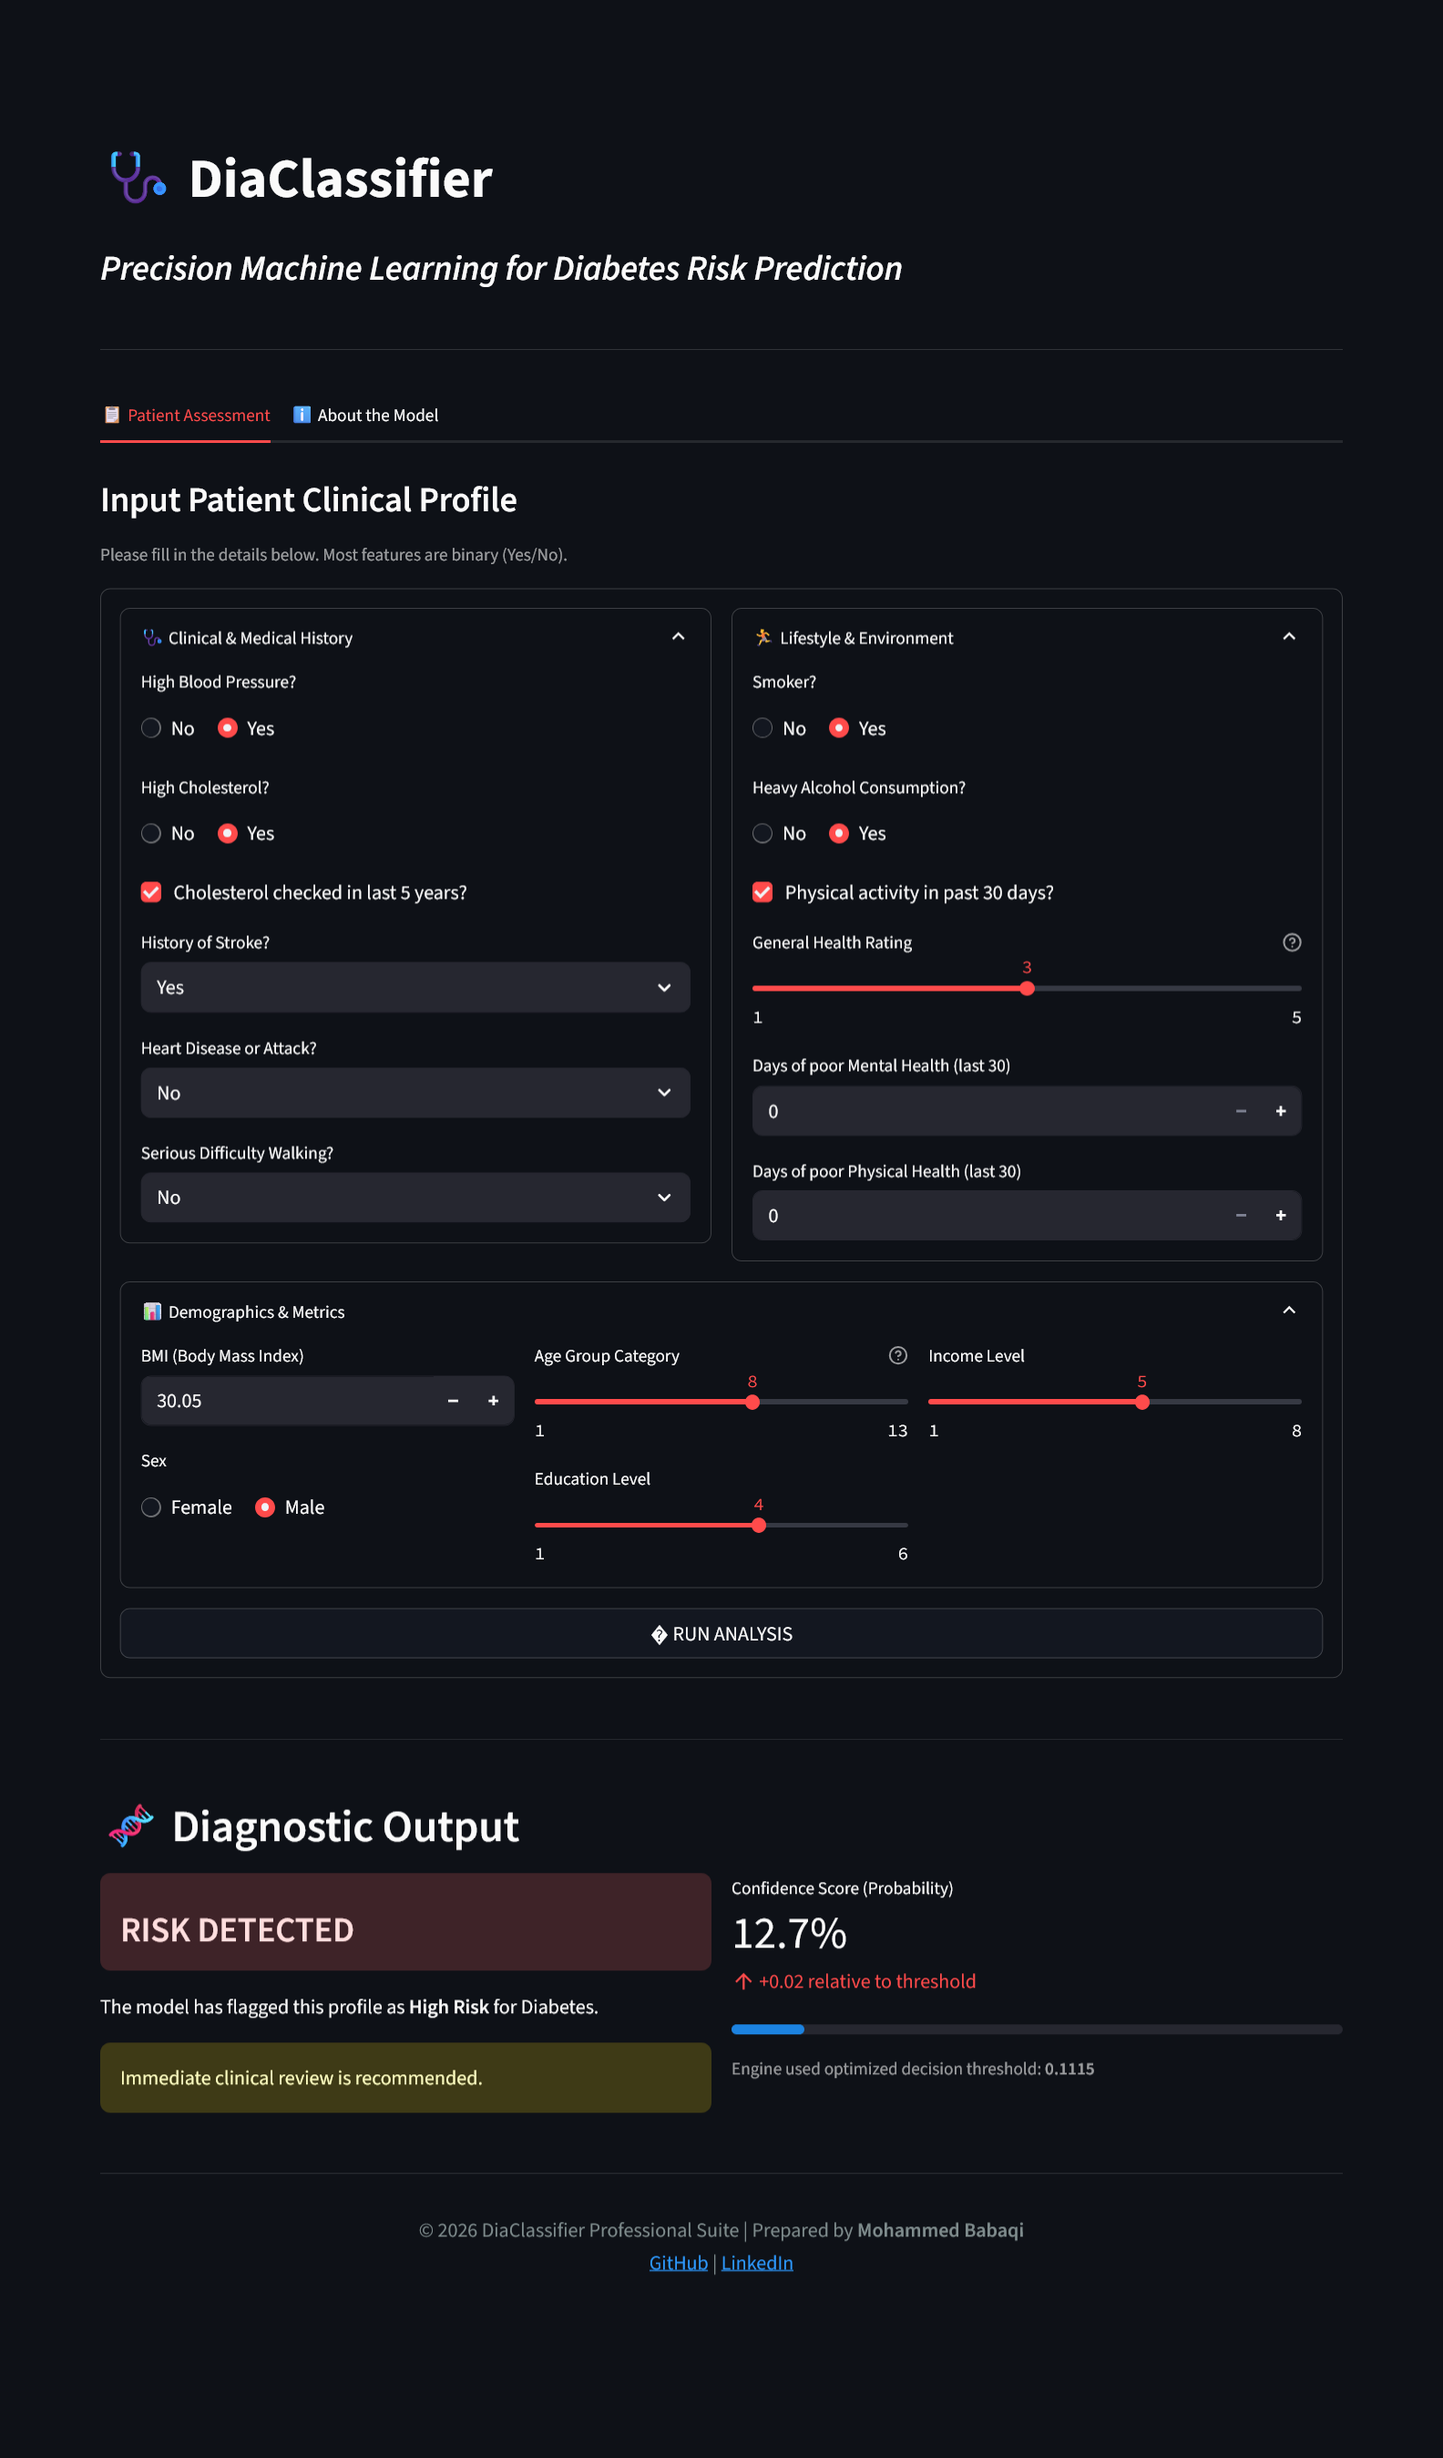
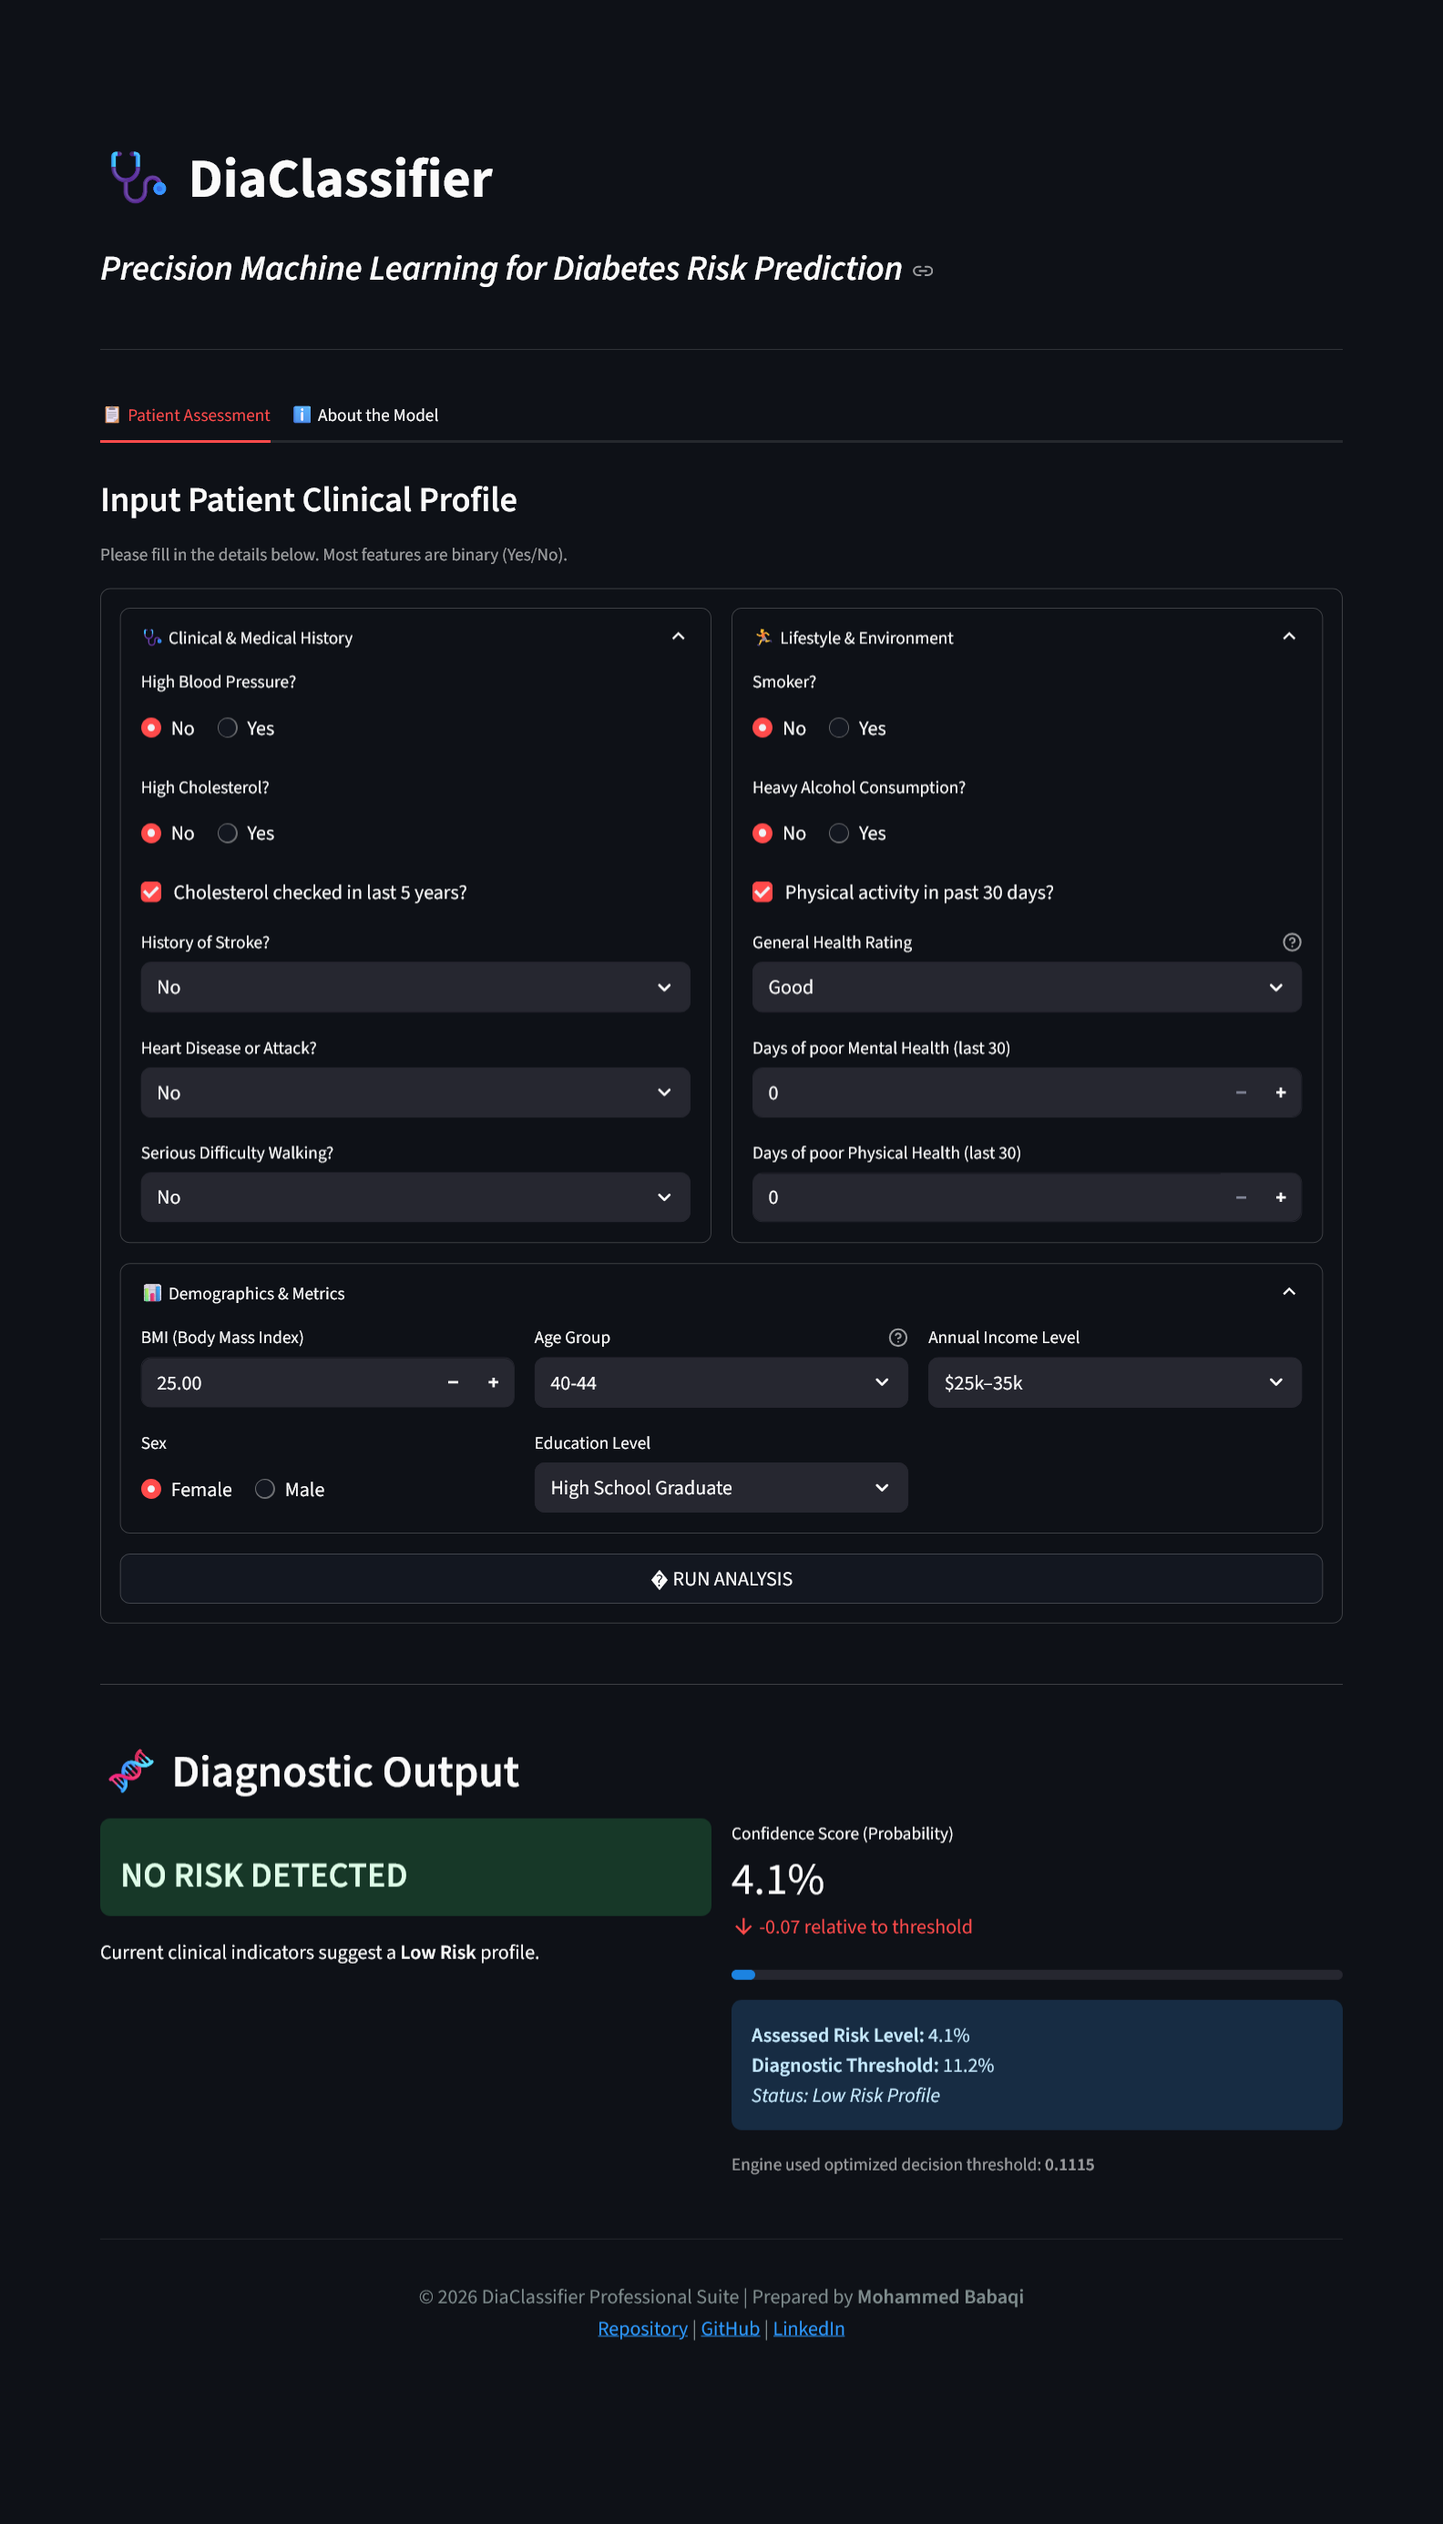
update app ui

diff --git a/app/main.py b/app/main.py
@@ -102,7 +102,29 @@ with tab1:
                 smoker = st.radio("Smoker?", [0, 1], format_func=lambda x: "Yes" if x == 1 else "No", horizontal=True)
                 hvy_alcohol = st.radio("Heavy Alcohol Consumption?", [0, 1], format_func=lambda x: "Yes" if x == 1 else "No", horizontal=True)
                 phys_activity = st.checkbox("Physical activity in past 30 days?", value=True)
-                gen_hlth = st.slider("General Health Rating", 1, 5, 3, help="1: Excellent ... 5: Poor")
+                # Define mappings
+                gen_hlth_map = {1: "Excellent", 2: "Very Good", 3: "Good", 4: "Fair", 5: "Poor"}
+                age_map = {
+                    1: "18-24", 2: "25-29", 3: "30-34", 4: "35-39", 5: "40-44",
+                    6: "45-49", 7: "50-54", 8: "55-59", 9: "60-64", 10: "65-69",
+                    11: "70-74", 12: "75-79", 13: "80+"
+                }
+                edu_map = {
+                    1: "No School", 2: "Elementary", 3: "Some High School",
+                    4: "High School Graduate", 5: "Some College", 6: "College Graduate"
+                }
+                income_map = {
+                    1: "< $10k", 2: "$10k–15k", 3: "$15k–20k", 4: "$20k–25k",
+                    5: "$25k–35k", 6: "$35k–50k", 7: "$50k–75k", 8: "> $75k"
+                }
+
+                gen_hlth = st.selectbox(
+                    "General Health Rating", 
+                    options=list(gen_hlth_map.keys()),
+                    format_func=lambda x: gen_hlth_map[x],
+                    index=2,
+                    help="How you rate your overall health"
+                )
                 ment_hlth = st.number_input("Days of poor Mental Health (last 30)", 0, 30, 0)
                 phys_hlth = st.number_input("Days of poor Physical Health (last 30)", 0, 30, 0)
 
@@ -112,10 +134,26 @@ with tab1:
                 bmi = st.number_input("BMI (Body Mass Index)", 10.0, 70.0, 25.0)
                 sex = st.radio("Sex", [0, 1], format_func=lambda x: "Female" if x == 0 else "Male", horizontal=True)
             with d_col2:
-                age = st.slider("Age Group Category", 1, 13, 5, help="1=18-24, ... 13=80+")
-                education = st.slider("Education Level", 1, 6, 4)
+                age = st.selectbox(
+                    "Age Group", 
+                    options=list(age_map.keys()), 
+                    format_func=lambda x: age_map[x],
+                    index=4,
+                    help="Select your age range"
+                )
+                education = st.selectbox(
+                    "Education Level", 
+                    options=list(edu_map.keys()), 
+                    format_func=lambda x: edu_map[x],
+                    index=3
+                )
             with d_col3:
-                income = st.slider("Income Level", 1, 8, 5)
+                income = st.selectbox(
+                    "Annual Income Level", 
+                    options=list(income_map.keys()), 
+                    format_func=lambda x: income_map[x],
+                    index=4
+                )
 
         # Form Submit
         submitted = st.form_submit_button("� RUN ANALYSIS", use_container_width=True)
@@ -170,7 +208,22 @@ with tab1:
                         delta=f"{delta_val:+.2f} relative to threshold",
                         delta_color="inverse" if pred == 1 else "normal"
                     )
+                    
+                    # Custom Enhanced Progress Bar with Threshold Marker
+                    bar_color = "#ff4b4b" if pred == 1 else "#26a69a"
+                    threshold_pos = round(threshold * 100, 1)
+                    prob_pos = round(prob * 100, 1)
+                    
+                    # Native Streamlit Visualization
                     st.progress(prob)
+                    
+                    # Informational labels using native components
+                    st.info(f"""
+                    **Assessed Risk Level:** {risk_pct:.1f}%  
+                    **Diagnostic Threshold:** {threshold * 100:.1f}%  
+                    *Status: {'Risk Detected' if pred == 1 else 'Low Risk Profile'}*
+                    """)
+                    
                     st.caption(f"Engine used optimized decision threshold: **{threshold:.4f}**")
 
             else:

diff --git a/README.md b/README.md
@@ -57,7 +57,10 @@ The project is architected as a decoupled micro-service environment:
 
 1.  **Analytical Engine**: A high-performance XGBoost classifier optimized for class imbalance (SMOTE) and calibrated (`CalibratedClassifierCV`) for reliable probability estimation.
 2.  **FastAPI Backend**: A production-ready REST API built with Pydantic for strict data validation and efficient model orchestration.
-3.  **Streamlit Dashboard**: A "Pro-Grade" native UI featuring intuitive input grouping, real-time metrics, and visual probability delta analysis.
+3.  **Streamlit Dashboard**: A "Pro-Grade" native UI featuring:
+    - **Categorical Feature Selection**: Intuitive selectboxes for Age, Education, and Income (no numeric codes required).
+    - **Risk Assessment Gauge**: Real-time visual tracking of probability relative to the diagnostic threshold.
+    - **Dynamic Metrics**: Clear probability delta analysis and status indicators.
 4.  **Containerization**: Fully Dockerized stack with professional folder organization and Docker Compose support.
 
 ---
